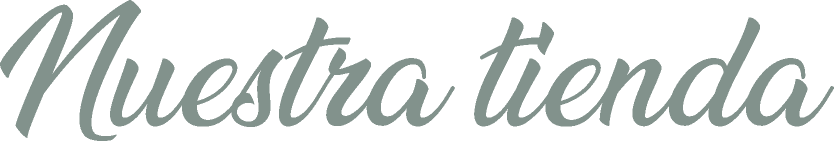
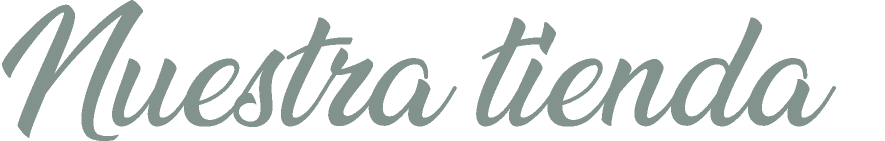
Home, some changes

Changed region(s): [[0.0624, 0.0, 1.0, 1.0], [0.0, 0.3404, 0.0312, 0.539]]

diff --git a/front/src/pages-components/Home/Slideshow/index.jsx b/front/src/pages-components/Home/Slideshow/index.jsx
@@ -1,28 +1,56 @@
 import React from 'react';
-import { StaticQuery, graphql } from 'gatsby';
+import styled from 'styled-components';
+import ImageGallery from 'react-image-gallery';
+import 'react-image-gallery/styles/css/image-gallery.css';
+import CustomSlide from './CustomSlide';
+import device from './../../../utilities/device';
 
-import SlideshowPresentation from './SlideshowPresentation';
+ const Layout = styled.section`
+  display: flex;
+  flex: 1;
+  margin: 0 ${({ fluid }) => (fluid ? 0 : 7.3)}em;
+  margin-bottom: 4.2em;
+  position: relative;
+  > div {
+    flex: 1;
+    > div {
+      flex: 1;
+      > div {
+        flex: 1;
+      }
+    }
+  }
+  ${device.mobile} {
+    margin-bottom: 35px;
+  }
+`;
 
-// Obtiene los datos correspondientes, los procesa y los pasa al componente encargado de renderizarlos
-const Slideshow = () => {
-  // To-do. Corregir query y pasar datos a la vista correspondiente
-  return (
-    <StaticQuery
-      query={graphql`
-        {
-          site {
-            id
-          }
-        }
-      `}
-      render={data => {
-        // To-do
-        const processedData = data;
+ const ImageGalleryWrapper = styled.div`
+  position: relative;
+`;
 
-        return <SlideshowPresentation data={processedData} />;
-      }}
-    />
-  );
-};
-
-export default Slideshow;
+ const SlideshowSection = React.forwardRef((props, forwardedRef) => {    
+    const images = [
+        {title: "ok", backgroundImage: "http://definicionde.hugex.net/wp-content/uploads/2015/07/e1001e86903d5fccba2a7e83a0547bd4.jpg"},
+        {title: "ok", backgroundImage: "https://www.tourinews.es/uploads/s1/16/86/27/paisaje-2_4_732x400.jpeg"},
+        {title: "ok", backgroundImage: "https://www.lifeder.com/wp-content/uploads/2017/07/paisaje-cultural.jpg"},
+    ]
+     return (
+        <Layout fluid innerRef={forwardedRef}>
+            <ImageGalleryWrapper>
+                <ImageGallery
+                items={images}
+                renderItem={props => <CustomSlide {...props} />}
+                showThumbnails={false}
+                showFullscreenButton={false}
+                showPlayButton={false}
+                slideDuration={1000}
+                autoPlay
+                showBullets
+                lazyLoad
+                />
+            </ImageGalleryWrapper>
+        </Layout>
+    );
+ });
+ export default SlideshowSection;

diff --git a/front/src/pages-components/Home/Section/index.jsx b/front/src/pages-components/Home/Section/index.jsx
@@ -20,27 +20,35 @@ const Container = styled.section`
     color: #626363;
     font-size: 20px;
   }
-  ::before {
-    position: absolute;
-    top: -30px;
-    height: 50px;
-    width: ${({ titleWidth }) => titleWidth};
-    content: '';
-    background-color: #ffffff;
-    background-image: url(${({ titleSrc }) => titleSrc});
-    background-size: cover;
-    background-repeat: no-repeat;
-    background-position: center center;
-  }
   ${device.mobile} {
     margin-bottom: 60px;
+    padding-top: 15px;
+    h2 {
+        font-size: 16px;
+        font-weight: bold;
+    }
+    p {
+      font-size: 16px;
+    }
   }
 `;
 
+const Title = styled.img`
+  position: absolute;
+  left: 0;
+  top: -30px;
+  background-color: #ffffff;
+  height: 50px;
+  ${device.mobile} {
+    height: 25px;
+    top: -17px;
+  }
+`
+
 const Section = props => {
-  console.log(props.children);
   return (
-    <Container titleSrc={props.titleSrc} titleWidth={props.titleWidth}>
+    <Container>
+      <Title src={props.titleSrc} alt={props.title}/>
       {props.children}
     </Container>
   );

diff --git a/front/src/pages-components/Home/QuienesSomos/index.jsx b/front/src/pages-components/Home/QuienesSomos/index.jsx
@@ -2,6 +2,7 @@ import React from 'react';
 import Section from './../Section';
 import styled from 'styled-components';
 import QuienesSomosImage from './../assets/quienes-somos.png';
+import device from './../../../utilities/device';
 
 const Banner = styled.div`
   width: 100vw;
@@ -13,12 +14,15 @@ const Banner = styled.div`
   background-size: cover;
   background-repeat: no-repeat;
   background-position: center center;
+  ${device.mobile} {
+    margin-bottom: 10px;
+  }
 `;
 
 const QuienesSomos = () => {
   return (
     <div>
-      <Section titleSrc={QuienesSomosImage} titleWidth={'247px'}>
+      <Section titleSrc={QuienesSomosImage} title="Quienes Somos">
         <Banner />
         <p>
           Somos una tienda que ofrece productos mexicanos con valor agregado,

diff --git a/front/src/pages-components/Home/NuestraTienda/index.jsx b/front/src/pages-components/Home/NuestraTienda/index.jsx
@@ -7,6 +7,9 @@ import device from './../../../utilities/device';
 
 const H2 = styled.h2`
   margin-top: 25px;
+  ${device.mobile} {
+    margin-top: 10px;
+  }
 `;
 
 const Pictures = styled.div`
@@ -36,7 +39,7 @@ const Pictures = styled.div`
     ${device.mobile} {
         flex-direction: column;
         align-items: center;
-        margin-bottom: 0;
+        margin: 20px auto;
     }
 `;
 const Picture = styled.div`
@@ -60,7 +63,7 @@ const Picture = styled.div`
 
 const NuestraTienda = () => {
   return (
-    <Section titleSrc={NuestraTiendaImage} titleWidth={'286px'}>
+    <Section titleSrc={NuestraTiendaImage} title="Nuestra Tienda">
       <H2>
         Visita nuestra tienda en línea y conoce los productos que tenemos para
         ti

diff --git a/front/src/pages-components/Home/SlideShow/CustomSlide.jsx b/front/src/pages-components/Home/SlideShow/CustomSlide.jsx
@@ -2,6 +2,7 @@ import React from 'react';
 //import PropTypes from 'prop-types';
 import styled from 'styled-components';
 //import breakpoints from '../../utils/breakpoints';
+import device from './../../../utilities/device';
 
 const Layout = styled.div`
   color: white;
@@ -11,6 +12,9 @@ const Layout = styled.div`
 const Img = styled.img`
   width: 100%;
   height: 35vw;
+  ${device.mobile} {
+    height: 60vw;
+  }
 `;
 
 const CustomSlide = props => {

diff --git a/front/src/pages-components/Home/Contacto/index.jsx b/front/src/pages-components/Home/Contacto/index.jsx
@@ -54,7 +54,7 @@ const Icon = styled.div`
 
 const Contacto = () => {
   return (
-    <Section titleSrc={ContactoImage} titleWidth={'180px'}>
+    <Section titleSrc={ContactoImage} title="Contacto">
       <h2>Sucursales</h2>
       <Sucursales>
         <Sucursal

diff --git a/front/src/pages-components/Home/ContactForm/index.jsx b/front/src/pages-components/Home/ContactForm/index.jsx
@@ -53,8 +53,10 @@ const H2 = styled.h2`
   ${device.mobile} {
     width: 40%;
     text-align: left;
-    font-size: 16px !important;
+    font-size: 16px!important;
     align-self: flex-start;
+    margin-top: 10px;
+    font-weight: normal;
   }
 `;
 
